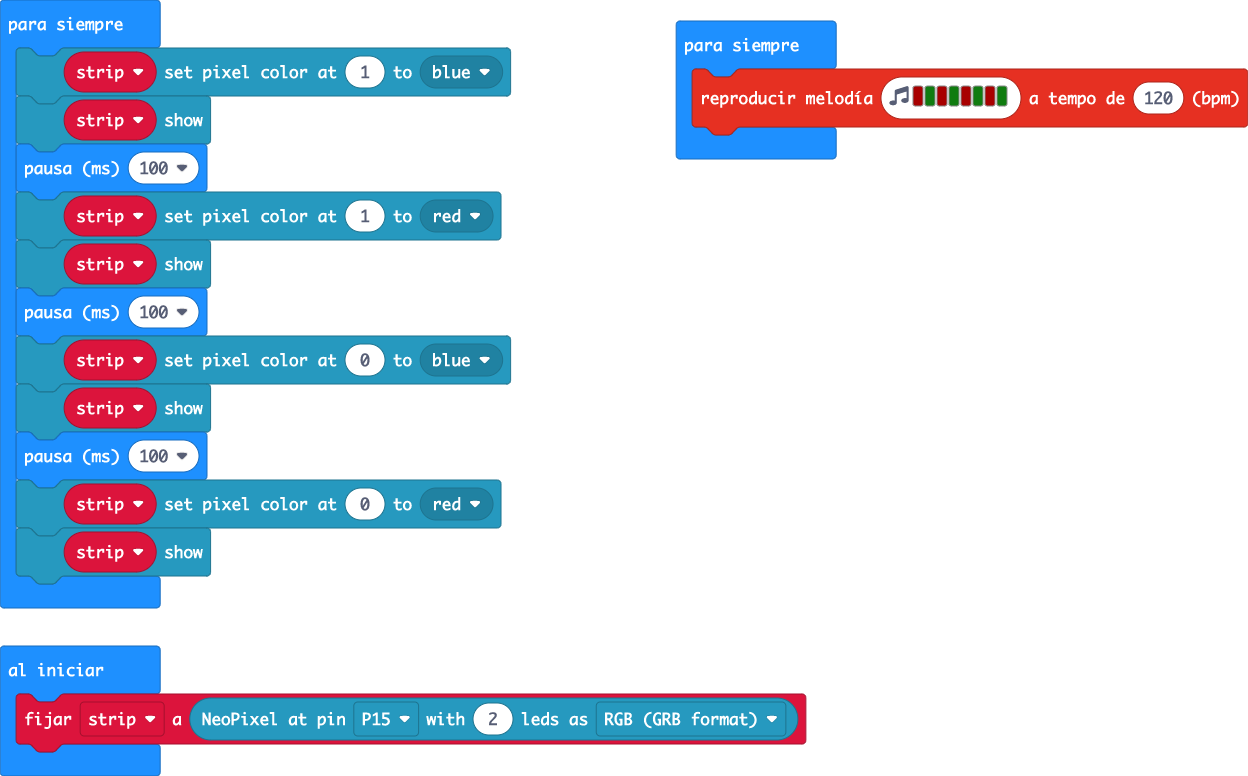
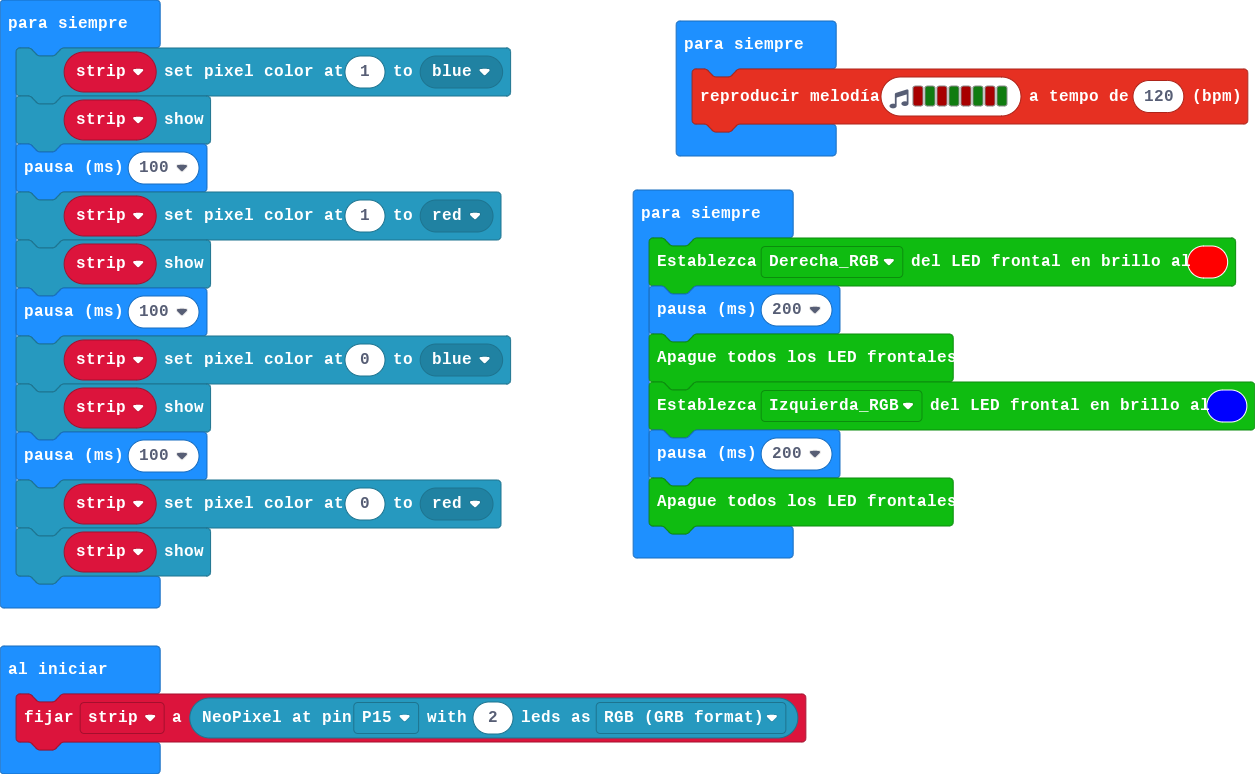
Actualizar pxt.json, main.blocks, main.ts

Changed region(s): [[0.5, 0.031, 1.0, 0.7442], [0.0, 0.0, 0.4375, 0.7442], [0.0, 0.7752, 0.6562, 0.9612]]

diff --git a/main.ts b/main.ts
@@ -15,3 +15,11 @@ basic.forever(function () {
 basic.forever(function () {
     music.playMelody("C5 G C5 G C5 G C5 G ", 120)
 })
+basic.forever(function () {
+    cuteBot.colorLight(cuteBot.RGBLights.RGB_L, 0xff0000)
+    basic.pause(200)
+    cuteBot.closeheadlights()
+    cuteBot.colorLight(cuteBot.RGBLights.RGB_R, 0x0000ff)
+    basic.pause(200)
+    cuteBot.closeheadlights()
+})
